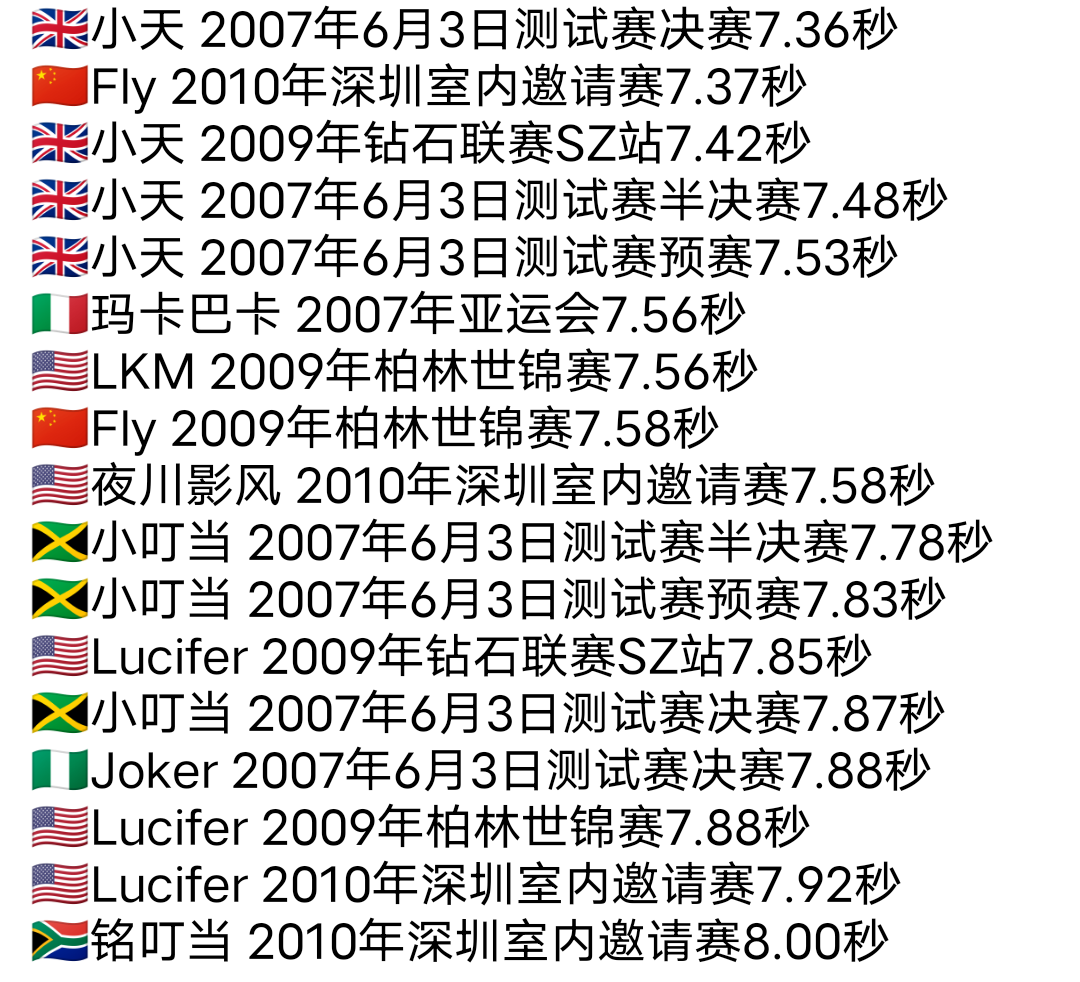
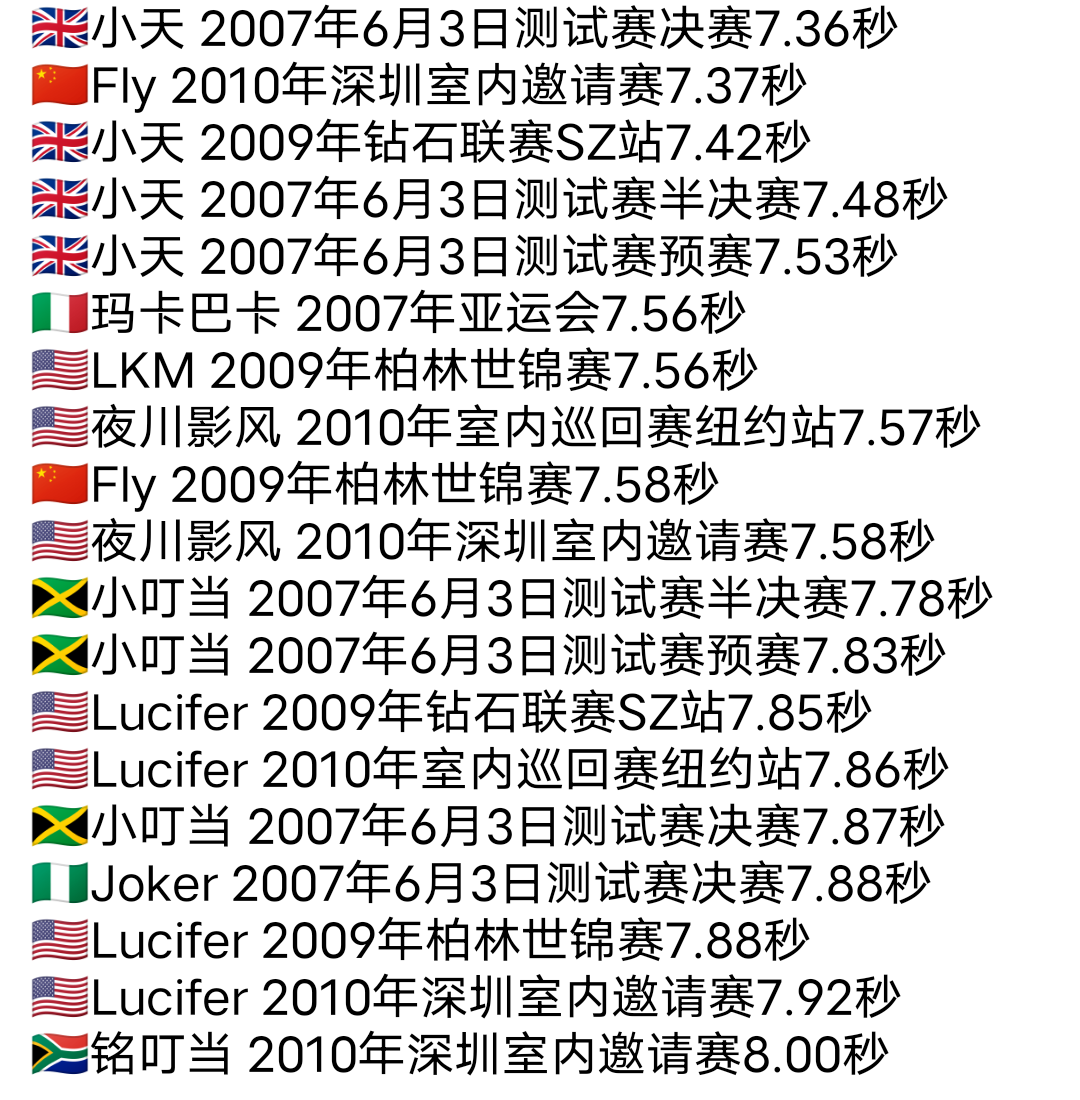
Add files via upload

diff --git a/2010比赛/2010 4.html b/2010比赛/2010 4.html
@@ -1,0 +1,74 @@
+<!DOCTYPE html>
+<html lang="en">
+<head>
+  <meta charset="UTF-8">
+  <script src="https://kit.fontawesome.com/05d30bd926.js" crossorigin="anonymous"></script>
+  <link rel="stylesheet" href="https://cdnjs.cloudflare.com/ajax/libs/font-awesome/5.15.1/css/all.min.css">
+  <link rel="stylesheet" href="风格.css">
+  <link rel="shortcut icon" href="picture\retouch_2023010914264730.ico" type="image/x-icon"/>
+  <link rel="apple-touch-icon" sizes="128x128" href="picture\retouch_2023010914264730.ico" type="image/png" />
+  <meta http-equiv="X-UA-Compatible" content="IE=edge,chrome=1">
+  <title>RR 国际田联</title>
+  <meta name="viewport" content="width=device-width, initial-scale=1">
+  <font style="font-size: 66px">
+    <p style="text-align: center">
+      <little></little></p>
+    <link rel="shortcut icon"type="image/x-icon"href="picture\gtjl.jpg" />
+    <style>
+      @media(max-width: 1200px) {
+        .menu-bar1{
+          display: none;
+        }
+      }
+      @media(min-width: 1200px) {
+        .menu-bar2{
+          display: none;
+        }
+      }
+    </style>
+  </font>
+</head>
+<script type="text/javascript" src="main.js"></script>
+<body onresize=hero(); style="background: white">
+<div style="white-space: nowrap" class="menu-bar1">
+  <h1 style="white-space: nowrap" class="logo1"><span>RR</span>国际田联</h1>
+  <div class="box">
+    <div class="time">
+      <p id="getTime">
+
+      </p>
+    </div>
+  </div>
+  <ul>
+    <li><a href="https://RRWorldAthletics.github.io">首页</a></li>
+  </ul>
+</div>
+
+
+<div style="white-space: nowrap" class="menu-bar2">
+  <h1 style="white-space: nowrap" class="logo2"><span>RR</span>国际田联</h1>
+  <div class="box">
+    <div class="time">
+      <p id="getTime2">
+
+      </p>
+    </div>
+  </div>
+  <ul>
+    <li><a href="https://RRWorldAthletics.github.io">首页</a></li>
+  </ul>
+</div>
+<div class="hero">
+  &nbsp;
+</div>
+<font style="font-size: 62px">
+  <p style="text-align: center">
+    <strong>2010年室内巡回赛纽约站</strong></p></font>
+<font style="font-size: 41px">
+  <p style="text-align: center">
+    <img src="20104p\200m.png" width="780" height="495"><br><br>
+    <img src="20104p\60m栏.png" width="550" height="550"><br><br>
+    <img src="20104p\三级跳.png" width="540" height="455"><br><br>
+  </p></p></font><p>
+</body>
+</html>

diff --git a/2010比赛/2010 5.html b/2010比赛/2010 5.html
@@ -1,0 +1,72 @@
+<!DOCTYPE html>
+<html lang="en">
+<head>
+  <meta charset="UTF-8">
+  <script src="https://kit.fontawesome.com/05d30bd926.js" crossorigin="anonymous"></script>
+  <link rel="stylesheet" href="https://cdnjs.cloudflare.com/ajax/libs/font-awesome/5.15.1/css/all.min.css">
+  <link rel="stylesheet" href="风格.css">
+  <link rel="shortcut icon" href="picture\retouch_2023010914264730.ico" type="image/x-icon"/>
+  <link rel="apple-touch-icon" sizes="128x128" href="picture\retouch_2023010914264730.ico" type="image/png" />
+  <meta http-equiv="X-UA-Compatible" content="IE=edge,chrome=1">
+  <title>RR 国际田联</title>
+  <meta name="viewport" content="width=device-width, initial-scale=1">
+  <font style="font-size: 66px">
+    <p style="text-align: center">
+      <little></little></p>
+    <link rel="shortcut icon"type="image/x-icon"href="picture\gtjl.jpg" />
+    <style>
+      @media(max-width: 1200px) {
+        .menu-bar1{
+          display: none;
+        }
+      }
+      @media(min-width: 1200px) {
+        .menu-bar2{
+          display: none;
+        }
+      }
+    </style>
+  </font>
+</head>
+<script type="text/javascript" src="main.js"></script>
+<body onresize=hero(); style="background: white">
+<div style="white-space: nowrap" class="menu-bar1">
+  <h1 style="white-space: nowrap" class="logo1"><span>RR</span>国际田联</h1>
+  <div class="box">
+    <div class="time">
+      <p id="getTime">
+
+      </p>
+    </div>
+  </div>
+  <ul>
+    <li><a href="https://RRWorldAthletics.github.io">首页</a></li>
+  </ul>
+</div>
+
+
+<div style="white-space: nowrap" class="menu-bar2">
+  <h1 style="white-space: nowrap" class="logo2"><span>RR</span>国际田联</h1>
+  <div class="box">
+    <div class="time">
+      <p id="getTime2">
+
+      </p>
+    </div>
+  </div>
+  <ul>
+    <li><a href="https://RRWorldAthletics.github.io">首页</a></li>
+  </ul>
+</div>
+<div class="hero">
+  &nbsp;
+</div>
+<font style="font-size: 62px">
+  <p style="text-align: center">
+    <strong>2010年钻石联赛M站</strong></p></font>
+<font style="font-size: 41px">
+  <p style="text-align: center">
+
+  </p></p></font><p>
+</body>
+</html>

diff --git a/2010年比赛.html b/2010年比赛.html
@@ -179,6 +179,26 @@
 <div class="wrapper">
     <div class="header"></div>
     <div class="风格">
+<!--        2010年钻石联赛M站-->
+        <div class="news1">
+            <div class="modulecontent">
+                <div class="mcline1">
+                    <a href="2010比赛\2010%205.html">
+                        <img src="2010比赛\2010bp\2010年钻石联赛M站.jpg" width="716" height="196"><br>
+                    </a>
+                </div>
+            </div>
+        </div>
+<!--        2010年室内巡回赛纽约站-->
+        <div class="news1">
+            <div class="modulecontent">
+                <div class="mcline1">
+                    <a href="2010比赛\2010%204.html">
+                        <img src="2010比赛\2010bp\2010年室内巡回赛纽约站.jpg" width="716" height="196"><br>
+                    </a>
+                </div>
+            </div>
+        </div>
 <!--        2010年西班牙港室内巡回赛-->
         <div class="news2">
             <div class="modulecontent">
